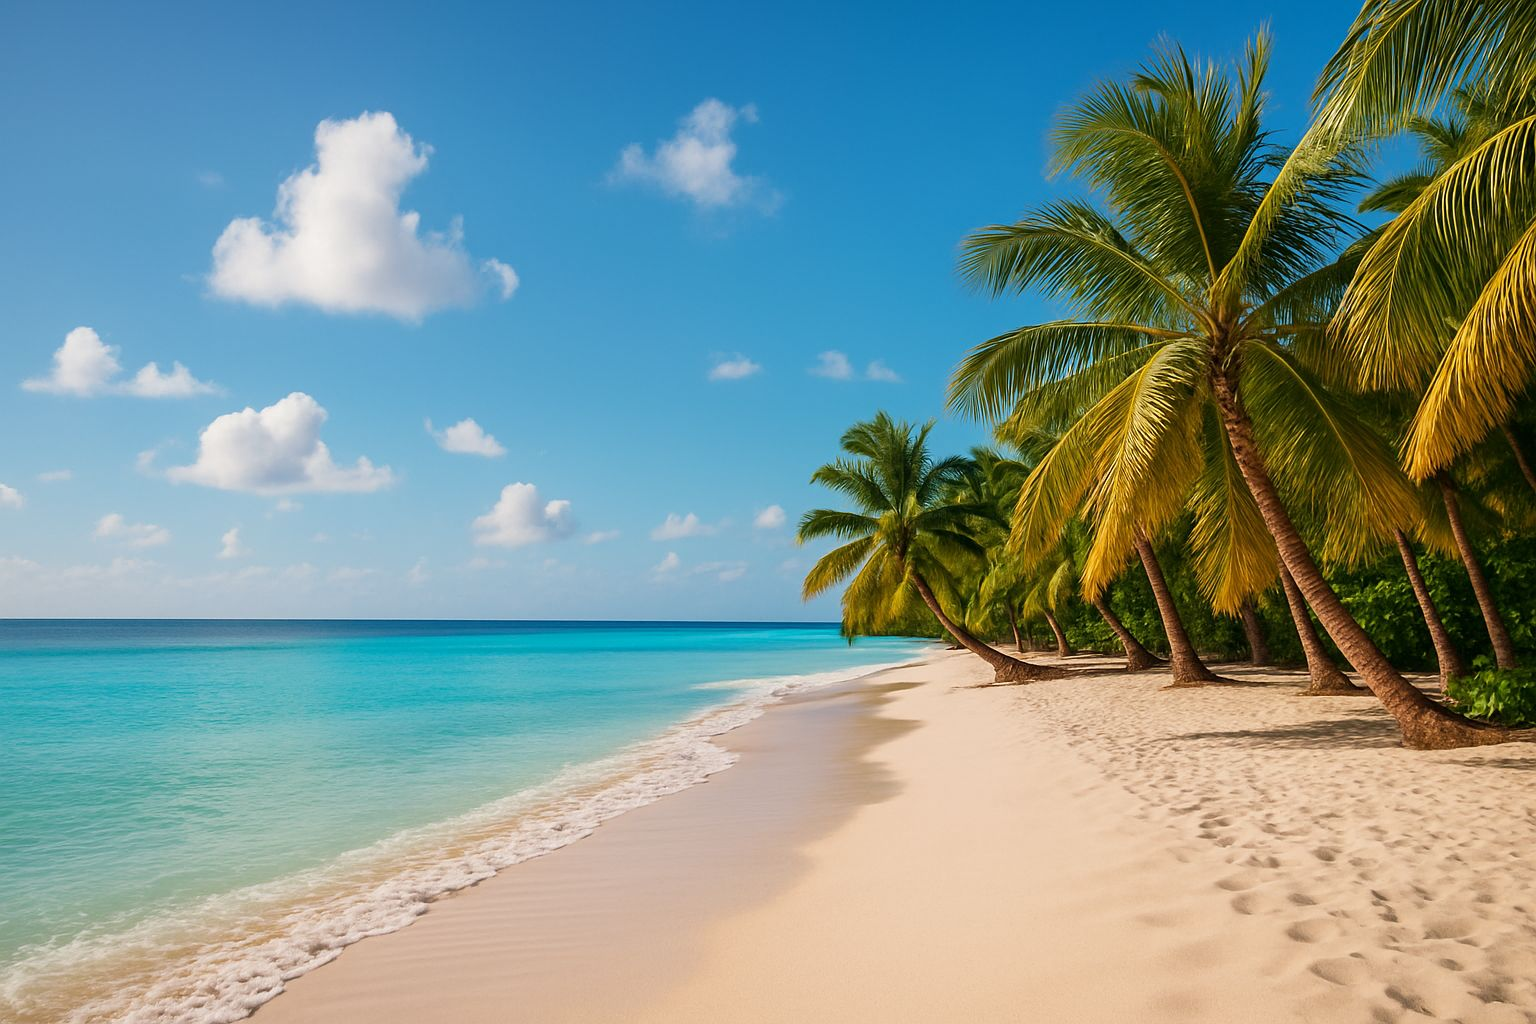
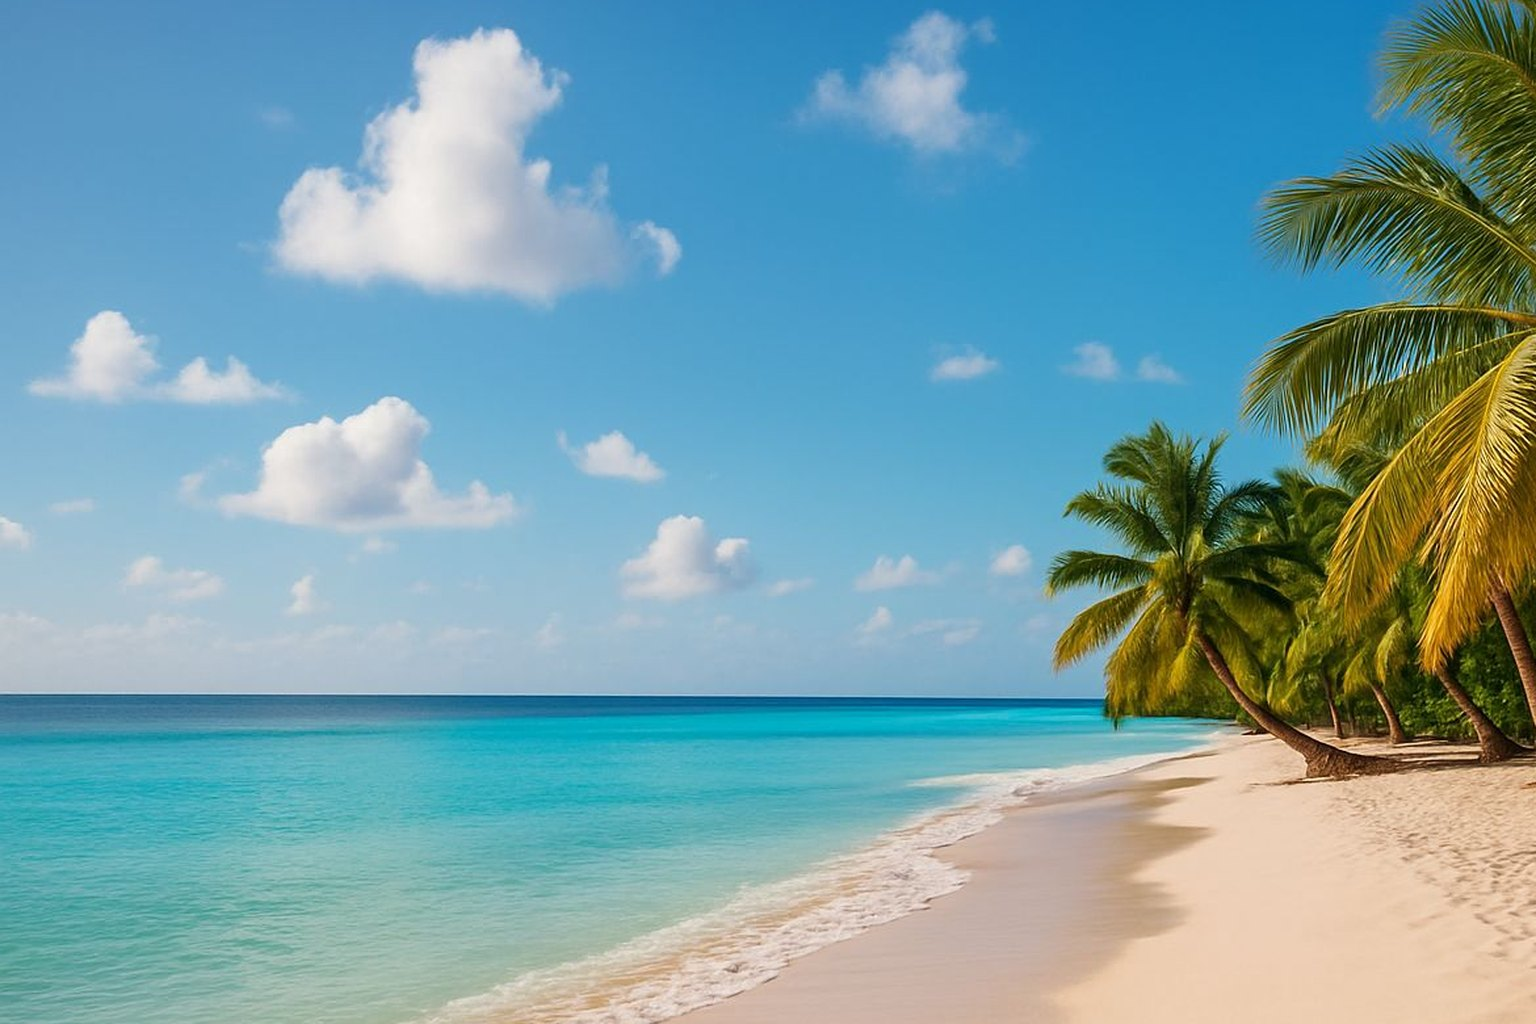
EAC feedback: save with our partners, no korbonaru, straight card, fewer palms, mixed-discount badge, email button on partner pages
Claude-Session: https://claude.ai/code/session_01GcnUyZnXaHV7HvydezANDz

diff --git a/public/assets/css/site.css b/public/assets/css/site.css
@@ -98,7 +98,7 @@ p { margin: 0 0 1em; }
 .stats { list-style: none; padding: 0; margin: 0; display: flex; gap: 28px; flex-wrap: wrap; color: #e3eee0; }
 .stats strong { color: var(--white); font-family: var(--display); font-size: 1.4rem; }
 .hero-card { flex: 0 1 300px; margin-left: auto; }
-.dcard { background: var(--white); color: var(--ink); border-radius: 26px; padding: 22px; box-shadow: 0 24px 60px rgba(0, 0, 0, .35); transform: rotate(-3deg); }
+.dcard { background: var(--white); color: var(--ink); border-radius: 26px; padding: 22px; box-shadow: 0 24px 60px rgba(0, 0, 0, .35); }
 .dcard-top { display: flex; align-items: center; gap: 10px; font-family: var(--display); font-weight: 600; color: var(--green-ink); }
 .dcard-qr { display: grid; place-items: center; background: var(--tint); border-radius: 16px; margin: 18px 0; padding: 28px; color: var(--green-ink); }
 .dcard-bottom { display: flex; justify-content: space-between; align-items: baseline; font-size: .9rem; }

diff --git a/app/i18n.php b/app/i18n.php
@@ -62,8 +62,8 @@ function translations(): array
             'nav.faq' => 'FAQ',
             'nav.login' => 'Log in',
             'nav.cta' => 'Get your account',
-            'hero.kicker' => 'Curaçao · KòrBonAru diaspora',
-            'hero.title' => 'Come home. Save everywhere.',
+            'hero.kicker' => 'Curaçao',
+            'hero.title' => 'Come home. Save with our partners.',
             'hero.text' => 'One digital account with discounts at {n}+ tours, beaches, museums and restaurants across Curaçao. Straight in your phone, ready to use.',
             'hero.cta' => 'Get your account from {price}',
             'hero.cta2' => 'See all partners',
@@ -86,6 +86,7 @@ function translations(): array
             'deals.off' => '{p}% off',
             'deals.free' => 'Free',
             'deals.upto' => 'up to {p}% off',
+            'deals.mixed' => 'Different discounts',
             'cards.title' => 'Pick your account',
             'cards.text' => 'One price, discounts at every partner. No hidden costs.',
             'cards.valid' => 'Valid 1 year',
@@ -107,13 +108,13 @@ function translations(): array
             'esim.text' => 'Add a Flow eSIM to your account. No store visit, no plastic SIM.',
             'esim.cta' => 'Add eSIM for {price}',
             'diaspora.title' => 'Made for the ones coming home',
-            'diaspora.text' => "Dj'aki mi ta! is a social initiative that connects Curaçaoans abroad and the KòrBonAru diaspora with their island. Every account supports local businesses.",
+            'diaspora.text' => "Dj'aki mi ta! is a social initiative that connects Curaçaoans abroad with their island. Every account supports local businesses.",
             'join.title' => 'Own a business on Curaçao?',
             'join.text' => 'Reach thousands of Curaçaoans from abroad when they come home.',
             'join.cta' => 'Become a partner',
             'faq.title' => 'Questions',
             'faq.q1' => 'Who can buy an account?',
-            'faq.a1' => 'Everyone who visits Curaçao. The accounts are made for the KòrBonAru diaspora and their families.',
+            'faq.a1' => 'Everyone who visits Curaçao. Made for Curaçaoans abroad, their families and everyone who loves the island.',
             'faq.q2' => 'How do I use my account?',
             'faq.a2' => 'Show the QR code in the app or in your email at the partner. They scan it and you get the discount.',
             'faq.q3' => 'How long is my account valid?',
@@ -142,6 +143,7 @@ function translations(): array
             'partner.route' => 'Get directions',
             'partner.website' => 'Website',
             'partner.call' => 'Call',
+            'partner.email' => 'Email',
             'partner.cta' => 'Get your account and save here',
             'kids' => 'Kids',
             'teen' => 'Teen',
@@ -155,8 +157,8 @@ function translations(): array
             'nav.faq' => 'Vragen',
             'nav.login' => 'Inloggen',
             'nav.cta' => 'Koop je account',
-            'hero.kicker' => 'Curaçao · KòrBonAru diaspora',
-            'hero.title' => 'Kom naar huis. Bespaar overal.',
+            'hero.kicker' => 'Curaçao',
+            'hero.title' => 'Kom naar huis. Bespaar bij onze partners.',
             'hero.text' => 'Eén digitaal account met korting bij {n}+ tours, stranden, musea en restaurants op Curaçao. Direct in je telefoon, klaar voor gebruik.',
             'hero.cta' => 'Koop je account vanaf {price}',
             'hero.cta2' => 'Bekijk alle partners',
@@ -179,6 +181,7 @@ function translations(): array
             'deals.off' => '{p}% korting',
             'deals.free' => 'Gratis',
             'deals.upto' => 'tot {p}% korting',
+            'deals.mixed' => 'Verschillende kortingen',
             'cards.title' => 'Kies je account',
             'cards.text' => 'Eén prijs, korting bij elke partner. Geen verborgen kosten.',
             'cards.valid' => '1 jaar geldig',
@@ -200,13 +203,13 @@ function translations(): array
             'esim.text' => 'Voeg een Flow eSIM toe aan je account. Geen winkel, geen plastic simkaart.',
             'esim.cta' => 'eSIM toevoegen voor {price}',
             'diaspora.title' => 'Gemaakt voor wie naar huis komt',
-            'diaspora.text' => "Dj'aki mi ta! is een sociaal initiatief dat Curaçaoënaars in het buitenland en de KòrBonAru diaspora verbindt met hun eiland. Elk account steunt lokale ondernemers.",
+            'diaspora.text' => "Dj'aki mi ta! is een sociaal initiatief dat Curaçaoënaars in het buitenland verbindt met hun eiland. Elk account steunt lokale ondernemers.",
             'join.title' => 'Heb je een bedrijf op Curaçao?',
             'join.text' => 'Bereik duizenden Curaçaoënaars uit het buitenland als ze thuiskomen.',
             'join.cta' => 'Word partner',
             'faq.title' => 'Vragen',
             'faq.q1' => 'Wie kan een account kopen?',
-            'faq.a1' => 'Iedereen die Curaçao bezoekt. De accounts zijn gemaakt voor de KòrBonAru diaspora en hun families.',
+            'faq.a1' => 'Iedereen die Curaçao bezoekt. Gemaakt voor Curaçaoënaars in het buitenland, hun families en iedereen die van het eiland houdt.',
             'faq.q2' => 'Hoe gebruik ik mijn account?',
             'faq.a2' => 'Laat de QR-code in de app of in je e-mail zien bij de partner. Zij scannen hem en jij krijgt de korting.',
             'faq.q3' => 'Hoe lang is mijn account geldig?',
@@ -235,6 +238,7 @@ function translations(): array
             'partner.route' => 'Route plannen',
             'partner.website' => 'Website',
             'partner.call' => 'Bellen',
+            'partner.email' => 'E-mail',
             'partner.cta' => 'Koop je account en bespaar hier',
             'kids' => 'Kind',
             'teen' => 'Tiener',
@@ -248,8 +252,8 @@ function translations(): array
             'nav.faq' => 'Pregunta',
             'nav.login' => 'Drenta',
             'nav.cta' => 'Kumpra bo account',
-            'hero.kicker' => 'Kòrsou · Diaspora KòrBonAru',
-            'hero.title' => 'Bin kas. Spar tur kaminda.',
+            'hero.kicker' => 'Kòrsou',
+            'hero.title' => 'Bin kas. Spar serka nos partnernan.',
             'hero.text' => 'Un account digital ku deskuento na {n}+ tour, playa, museo i restorant rònt Kòrsou. Direkto den bo telefòn, kla pa usa.',
             'hero.cta' => 'Kumpra bo account for di {price}',
             'hero.cta2' => 'Wak tur socio',
@@ -272,6 +276,7 @@ function translations(): array
             'deals.off' => '{p}% deskuento',
             'deals.free' => 'Grátis',
             'deals.upto' => 'te {p}% deskuento',
+            'deals.mixed' => 'Diferente deskuento',
             'cards.title' => 'Skohe bo account',
             'cards.text' => 'Un preis, deskuento na tur socio. Sin gasto skondí.',
             'cards.valid' => 'Bálido 1 aña',
@@ -293,13 +298,13 @@ function translations(): array
             'esim.text' => 'Agregá un Flow eSIM na bo account. Sin bai tienda, sin SIM di plèstik.',
             'esim.cta' => 'Agregá eSIM pa {price}',
             'diaspora.title' => 'Hasí pa esnan ku ta bin kas',
-            'diaspora.text' => "Dj'aki mi ta! ta un iniciativa sosial ku ta konektá yu di Kòrsou den eksterior i e diaspora di KòrBonAru ku nan isla. Kada account ta sostené negoshi lokal.",
+            'diaspora.text' => "Dj'aki mi ta! ta un iniciativa sosial ku ta konektá yu di Kòrsou den eksterior ku nan isla. Kada account ta sostené negoshi lokal.",
             'join.title' => 'Bo tin un negoshi na Kòrsou?',
             'join.text' => 'Alkansá míles di yu di Kòrsou for di eksterior ora nan bin kas.',
             'join.cta' => 'Bira socio',
             'faq.title' => 'Pregunta',
             'faq.q1' => 'Ken por kumpra un account?',
-            'faq.a1' => 'Tur hende ku ta bishitá Kòrsou. E accountnan ta hasí pa e diaspora di KòrBonAru i nan famia.',
+            'faq.a1' => 'Tur hende ku ta bishitá Kòrsou. Hasí pa yu di Kòrsou den eksterior, nan famia i tur hende ku stima e isla.',
             'faq.q2' => 'Kon mi ta usa mi account?',
             'faq.a2' => 'Mustra e QR code den e app òf den bo email na e socio. Nan ta skan\'é i bo ta haña e deskuento.',
             'faq.q3' => 'Kuantu tempu mi account ta bálido?',
@@ -328,6 +333,7 @@ function translations(): array
             'partner.route' => 'Planifiká ruta',
             'partner.website' => 'Website',
             'partner.call' => 'Yama',
+            'partner.email' => 'Email',
             'partner.cta' => 'Kumpra bo account i spar aki',
             'kids' => 'Mucha',
             'teen' => 'Tiener',

diff --git a/public/partner.php b/public/partner.php
@@ -21,6 +21,8 @@ $mapsUrl = 'https://www.google.com/maps/search/?api=1&query=' . urlencode($p['na
 $website = filter_var($p['website'], FILTER_VALIDATE_URL) && preg_match('#^https?://#i', (string) $p['website']) ? $p['website'] : '';
 $phone = preg_replace('/[^0-9+]/', '', (string) $p['phone']);
 $best = $p['deals'] ? max(array_column($p['deals'], 'the_percent')) : 0;
+$low = $p['deals'] ? min(array_column($p['deals'], 'the_percent')) : 0;
+$email = filter_var(trim((string) ($p['email'] ?? '')), FILTER_VALIDATE_EMAIL) ?: '';
 
 page_header($p['name'] . " · Dj'aki mi ta!", 'partners', mb_substr(strip_tags((string) $p['description']), 0, 155));
 ?>
@@ -44,7 +46,7 @@ page_header($p['name'] . " · Dj'aki mi ta!", 'partners', mb_substr(strip_tags((
       </div>
 
       <div class="detail-info">
-        <?php if ($best > 0): ?><span class="badge badge-inline"><?= e(discount_label($best)) ?></span><?php endif; ?>
+        <?php if ($best > 0): ?><span class="badge badge-inline"><?= e(discount_label($best, $low)) ?></span><?php endif; ?>
         <h1><?= e($p['name']) ?></h1>
         <div class="desc"><?= nl2br(e(trim((string) $p['description']))) ?></div>
 
@@ -89,6 +91,7 @@ page_header($p['name'] . " · Dj'aki mi ta!", 'partners', mb_substr(strip_tags((
             <a class="btn btn-outline btn-sm" href="<?= e($mapsUrl) ?>" target="_blank" rel="noopener"><?= e(t('partner.route')) ?></a>
             <?php if ($website): ?><a class="btn btn-outline btn-sm" href="<?= e($website) ?>" target="_blank" rel="noopener"><?= icon('globe', 16) ?> <?= e(t('partner.website')) ?></a><?php endif; ?>
             <?php if ($phone): ?><a class="btn btn-outline btn-sm" href="tel:<?= e($phone) ?>"><?= icon('phone', 16) ?> <?= e(t('partner.call')) ?></a><?php endif; ?>
+            <?php if ($email): ?><a class="btn btn-outline btn-sm" href="mailto:<?= e($email) ?>"><?= icon('mail', 16) ?> <?= e(t('partner.email')) ?></a><?php endif; ?>
           </div>
         </div>
 

diff --git a/app/data.php b/app/data.php
@@ -134,6 +134,7 @@ function partners(?int $category = null, string $search = '', ?int $limit = null
     $sql = 'SELECT v.id, TRIM(v.name) AS name, v.location, v.category_id, TRIM(c.name) AS category,
                    LEFT(v.description, 400) AS description,
                    MAX(d.the_percent) AS best_percent,
+                   MIN(d.the_percent) AS low_percent,
                    (SELECT i.id FROM voucher_company_images i WHERE i.company_id = v.id ORDER BY i.sort_order, i.id LIMIT 1) AS image_id,
                    (v.picture IS NOT NULL AND LENGTH(v.picture) > 0) AS has_picture
             FROM voucher_company v
@@ -204,13 +205,20 @@ function partner_image_url(array $p, string $size = 'm'): string
     return url('assets/img/placeholder.svg');
 }
 
-function discount_label($percent): string
+/**
+ * Badge text for a partner. Same discount for every account: "20% off" or "Free".
+ * Different discounts per account: "Different discounts", so people open the partner to see them.
+ */
+function discount_label($percent, $low = null): string
 {
     $p = (int) round((float) $percent);
     if ($p <= 0) {
         return '';
     }
-    return $p >= 100 ? t('deals.free') : t('deals.upto', ['p' => $p]);
+    if ($low !== null && (int) round((float) $low) !== $p) {
+        return t('deals.mixed');
+    }
+    return $p >= 100 ? t('deals.free') : t('deals.off', ['p' => $p]);
 }
 
 function package_label(int $packageId): string

diff --git a/app/countdown.php b/app/countdown.php
@@ -186,7 +186,7 @@ function render_countdown(): void
 <nav class="cd-strip" aria-label="<?= e($c['partners']) ?>">
   <div class="cd-track" style="--dur:<?= max(30, count($strip) * 4) ?>s">
     <?php foreach ([0, 1] as $copy): foreach ($strip as $p): ?>
-      <a class="cd-chip" href="/partner.php?id=<?= (int) $p['id'] ?>"<?= $copy ? ' aria-hidden="true" tabindex="-1"' : '' ?>><img src="<?= e(partner_image_url($p, 's')) ?>" alt="" loading="lazy" width="74" height="74"><?= e($p['name']) ?><?= (float) $p['best_percent'] > 0 ? ' · ' . e(discount_label($p['best_percent'])) : '' ?></a>
+      <a class="cd-chip" href="/partner.php?id=<?= (int) $p['id'] ?>"<?= $copy ? ' aria-hidden="true" tabindex="-1"' : '' ?>><img src="<?= e(partner_image_url($p, 's')) ?>" alt="" loading="lazy" width="74" height="74"><?= e($p['name']) ?><?= (float) $p['best_percent'] > 0 ? ' · ' . e(discount_label($p['best_percent'], $p['low_percent'] ?? null)) : '' ?></a>
     <?php endforeach; endforeach; ?>
   </div>
 </nav>

diff --git a/public/partners.php b/public/partners.php
@@ -41,7 +41,7 @@ page_header(t('partners.title') . " · Dj'aki mi ta!", 'partners');
         <?php foreach ($list as $p): ?>
           <a class="pcard" href="/partner.php?id=<?= (int) $p['id'] ?>">
             <span class="pcard-img"><img src="<?= e(partner_image_url($p)) ?>" alt="" loading="lazy" width="400" height="300"></span>
-            <?php if ($lbl = discount_label($p['best_percent'])): ?><span class="badge"><?= e($lbl) ?></span><?php endif; ?>
+            <?php if ($lbl = discount_label($p['best_percent'], $p['low_percent'] ?? null)): ?><span class="badge"><?= e($lbl) ?></span><?php endif; ?>
             <span class="pcard-body">
               <strong><?= e($p['name']) ?></strong>
               <span class="muted small"><?= icon('pin', 14) ?> <?= e(trim(explode(',', (string) $p['location'])[0]) ?: 'Curaçao') ?></span>

diff --git a/public/index.php b/public/index.php
@@ -76,7 +76,7 @@ page_header("Dj'aki mi ta! · " . t('hero.title'));
       <?php foreach ($featured as $p): ?>
         <a class="pcard" href="/partner.php?id=<?= (int) $p['id'] ?>">
           <span class="pcard-img"><img src="<?= e(partner_image_url($p)) ?>" alt="" loading="lazy" width="400" height="300"></span>
-          <?php if ($lbl = discount_label($p['best_percent'])): ?><span class="badge"><?= e($lbl) ?></span><?php endif; ?>
+          <?php if ($lbl = discount_label($p['best_percent'], $p['low_percent'] ?? null)): ?><span class="badge"><?= e($lbl) ?></span><?php endif; ?>
           <span class="pcard-body">
             <strong><?= e($p['name']) ?></strong>
             <span class="muted small"><?= icon('pin', 14) ?> <?= e(trim(explode(',', (string) $p['location'])[0])) ?></span>
